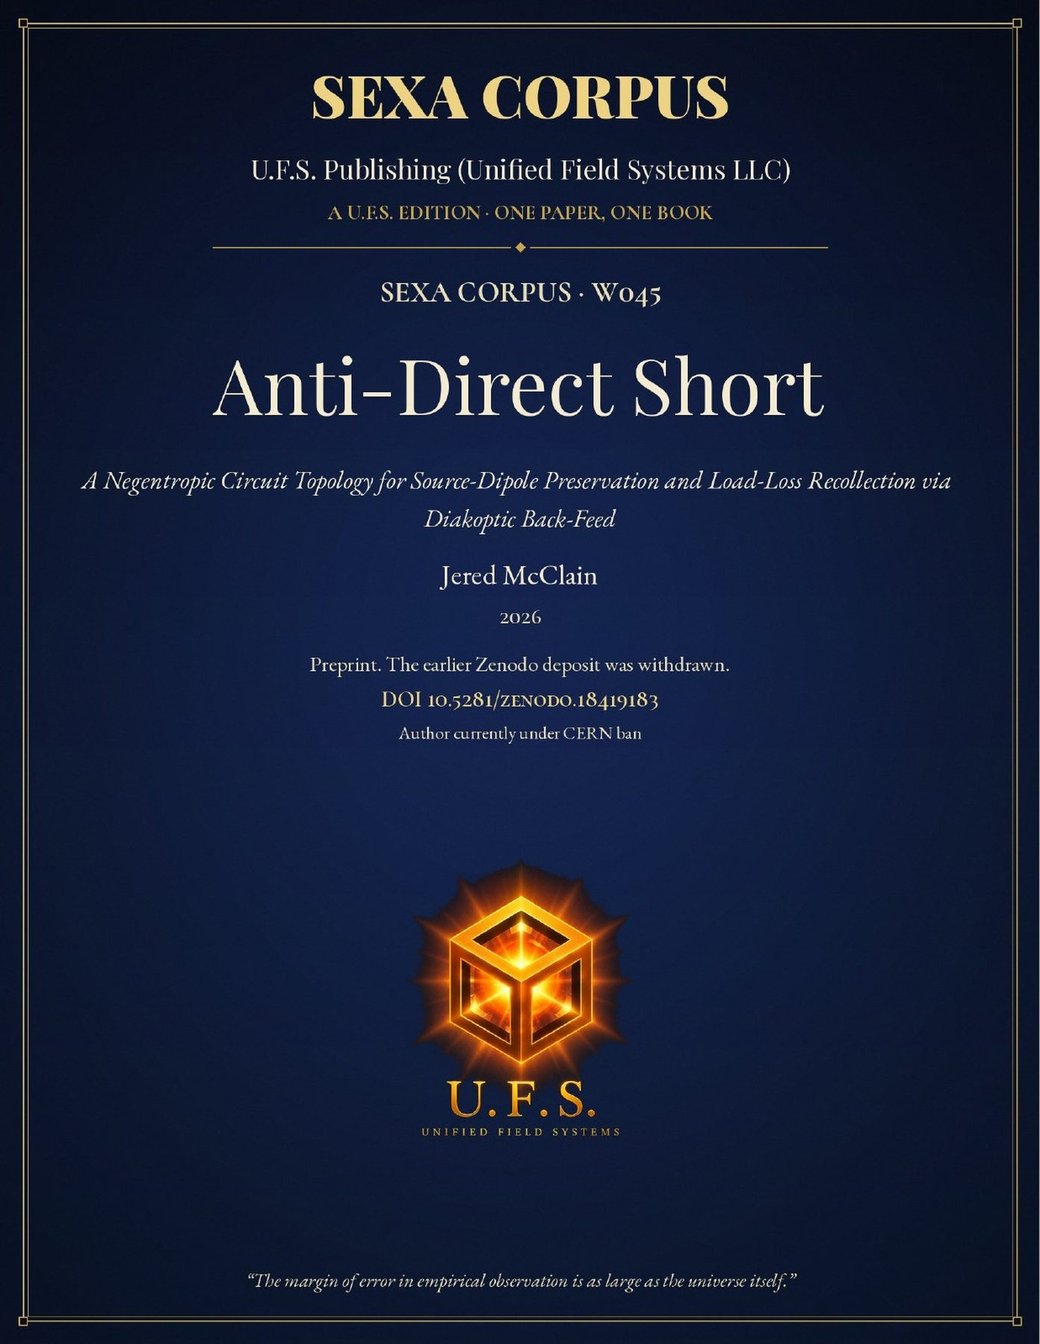
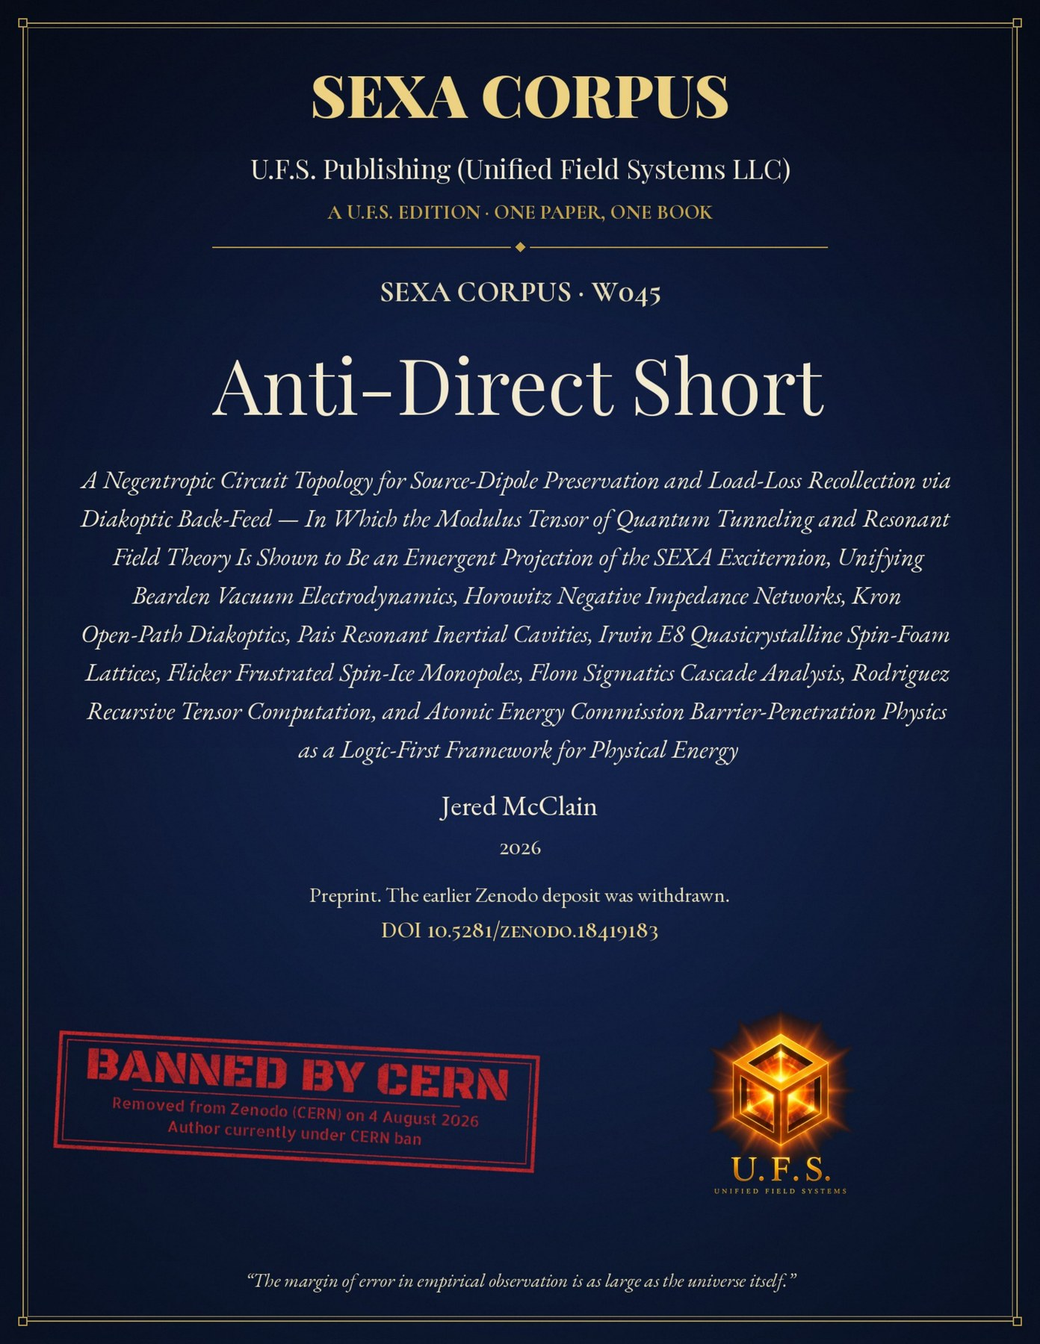
CERN-ban works: BANNED BY CERN stamped front covers + red CERN BAN label beside each cover (W011 W024 W039 W042 W044 W045 W046 W047 W048 W049 W069)

diff --git a/index.html b/index.html
@@ -116,6 +116,7 @@ footer .by{font:600 15px var(--serif);color:#f3ecdc;letter-spacing:.06em;margin-
 .thumb-banner{display:block;max-width:1000px;margin:0 auto;padding:22px 20px 8px;box-sizing:border-box}
 .thumb-banner a{display:block;line-height:0;text-decoration:none}
 .thumb-banner img{display:block;width:100%;height:auto;border:1px solid var(--gold);border-radius:4px;background:var(--navy)}
+.cern-ban-label{display:inline-block;font:800 15px/1.2 var(--sans,Arial,Helvetica,sans-serif);letter-spacing:.14em;text-transform:uppercase;color:#C00000;border:2px solid #C00000;padding:4px 10px;margin:10px 0 6px}.cern-card .cern-ban-label{margin:0 0 6px;font-size:13px;padding:3px 8px}
 </style>
 </head>
 <body>
@@ -584,8 +585,9 @@ footer .by{font:600 15px var(--serif);color:#f3ecdc;letter-spacing:.06em;margin-
 <p>These works were removed from Zenodo on 4 August 2026. Where a Zenodo DOI was issued, it is printed on the edition; it no longer resolves. Author currently under CERN ban. Released titles may be ordered as First Wave print copies, made to order and issued without ISBNs. Works still under review, unreleased, or issued only as a compilation are listed here but are not offered for order.</p>
 <div class="cern-grid">
 <article class="cern-card" id="cern-W011">
-<a href="#corpus-W011"><img class="cover" src="assets/corpus/covers/W011.jpg" srcset="assets/corpus/covers/W011.webp" width="1392" height="1800" alt="Front cover of W011" loading="lazy" decoding="async"></a>
+<a href="#corpus-W011"><img class="cover" src="assets/corpus/covers/W011.jpg?v=cernban1" srcset="assets/corpus/covers/W011.webp?v=cernban1" width="1392" height="1800" alt="Front cover of W011" loading="lazy" decoding="async"></a>
 <div>
+<p class="cern-ban-label" style="color:#C00000;font-weight:800">CERN BAN</p>
 <p class="wid">W011</p>
 <h4><a href="#corpus-W011">A Recursive Closure Criterion for a Theory of Everything: A 60-Glyph Quaternionic Inter-Domain Syllogistic Admissibility ≡ Prime Atom of Logic</a></h4>
 <p class="by">Jered McClain</p>
@@ -594,8 +596,9 @@ footer .by{font:600 15px var(--serif);color:#f3ecdc;letter-spacing:.06em;margin-
 </div>
 </article>
 <article class="cern-card" id="cern-W039">
-<a href="#corpus-W039"><img class="cover" src="assets/corpus/covers/W039.jpg" srcset="assets/corpus/covers/W039.webp" width="1392" height="1800" alt="Front cover of W039" loading="lazy" decoding="async"></a>
+<a href="#corpus-W039"><img class="cover" src="assets/corpus/covers/W039.jpg?v=cernban1" srcset="assets/corpus/covers/W039.webp?v=cernban1" width="1392" height="1800" alt="Front cover of W039" loading="lazy" decoding="async"></a>
 <div>
+<p class="cern-ban-label" style="color:#C00000;font-weight:800">CERN BAN</p>
 <p class="wid">W039</p>
 <h4><a href="#corpus-W039">Unified Recursive Manifold Dynamics, Dimensional Collapse Operators, and Triality-Structured Exciter Geometry — MASTER PEER REVIEW EDITION</a></h4>
 <p class="by">Jered McClain</p>
@@ -604,8 +607,9 @@ footer .by{font:600 15px var(--serif);color:#f3ecdc;letter-spacing:.06em;margin-
 </div>
 </article>
 <article class="cern-card" id="cern-W044">
-<a href="#corpus-W044"><img class="cover" src="assets/corpus/covers/W044.jpg" srcset="assets/corpus/covers/W044.webp" width="1392" height="1800" alt="Front cover of W044" loading="lazy" decoding="async"></a>
+<a href="#corpus-W044"><img class="cover" src="assets/corpus/covers/W044.jpg?v=cernban1" srcset="assets/corpus/covers/W044.webp?v=cernban1" width="1392" height="1800" alt="Front cover of W044" loading="lazy" decoding="async"></a>
 <div>
+<p class="cern-ban-label" style="color:#C00000;font-weight:800">CERN BAN</p>
 <p class="wid">W044</p>
 <h4><a href="#corpus-W044">The AMN Authority Tensor: Quaternionic Admissibility Enforcement, Glyph-Operator Constraint, and Planetary Closure in the SEXA Framework</a></h4>
 <p class="by">Jered McClain; Erydir Ceisiwr</p>
@@ -614,8 +618,9 @@ footer .by{font:600 15px var(--serif);color:#f3ecdc;letter-spacing:.06em;margin-
 </div>
 </article>
 <article class="cern-card" id="cern-W045">
-<a href="#corpus-W045"><img class="cover" src="assets/corpus/covers/W045.jpg" srcset="assets/corpus/covers/W045.webp" width="1392" height="1800" alt="Front cover of W045" loading="lazy" decoding="async"></a>
+<a href="#corpus-W045"><img class="cover" src="assets/corpus/covers/W045.jpg?v=cernban1" srcset="assets/corpus/covers/W045.webp?v=cernban1" width="1392" height="1800" alt="Front cover of W045" loading="lazy" decoding="async"></a>
 <div>
+<p class="cern-ban-label" style="color:#C00000;font-weight:800">CERN BAN</p>
 <p class="wid">W045</p>
 <h4><a href="#corpus-W045">Anti-Direct Short: A Negentropic Circuit Topology for Source-Dipole Preservation and Load-Loss Recollection via Diakoptic Back-Feed</a></h4>
 <p class="by">Jered McClain</p>
@@ -624,8 +629,9 @@ footer .by{font:600 15px var(--serif);color:#f3ecdc;letter-spacing:.06em;margin-
 </div>
 </article>
 <article class="cern-card" id="cern-W046">
-<a href="#corpus-W046"><img class="cover" src="assets/corpus/covers/W046.jpg" srcset="assets/corpus/covers/W046.webp" width="1392" height="1800" alt="Front cover of W046" loading="lazy" decoding="async"></a>
+<a href="#corpus-W046"><img class="cover" src="assets/corpus/covers/W046.jpg?v=cernban1" srcset="assets/corpus/covers/W046.webp?v=cernban1" width="1392" height="1800" alt="Front cover of W046" loading="lazy" decoding="async"></a>
 <div>
+<p class="cern-ban-label" style="color:#C00000;font-weight:800">CERN BAN</p>
 <p class="wid">W046</p>
 <h4><a href="#corpus-W046">Joey Rubin’s Kinetic Blueprinting, the 1-D Visibility Threshold, and SEXA MATH Real-Time Imagery Across 5–2880D</a></h4>
 <p class="by">Jered McClain</p>
@@ -634,8 +640,9 @@ footer .by{font:600 15px var(--serif);color:#f3ecdc;letter-spacing:.06em;margin-
 </div>
 </article>
 <article class="cern-card" id="cern-W048">
-<a href="#corpus-W048"><img class="cover" src="assets/corpus/covers/W048.jpg" srcset="assets/corpus/covers/W048.webp" width="1392" height="1800" alt="Front cover of W048" loading="lazy" decoding="async"></a>
+<a href="#corpus-W048"><img class="cover" src="assets/corpus/covers/W048.jpg?v=cernban1" srcset="assets/corpus/covers/W048.webp?v=cernban1" width="1392" height="1800" alt="Front cover of W048" loading="lazy" decoding="async"></a>
 <div>
+<p class="cern-ban-label" style="color:#C00000;font-weight:800">CERN BAN</p>
 <p class="wid">W048</p>
 <h4><a href="#corpus-W048">Lightning as a Quantum Vacuum Plasma Fracture Rather Than Propagation — A SEXA-Based Challenge to Geodesic Intuition, Thermodynamic Locality, and Mid-Air Lightning Termination (ZeroReactor)</a></h4>
 <p class="by">Jered McClain</p>
@@ -644,8 +651,9 @@ footer .by{font:600 15px var(--serif);color:#f3ecdc;letter-spacing:.06em;margin-
 </div>
 </article>
 <article class="cern-card" id="cern-W049">
-<a href="#corpus-W049"><img class="cover" src="assets/corpus/covers/W049.jpg" srcset="assets/corpus/covers/W049.webp" width="1392" height="1800" alt="Front cover of W049" loading="lazy" decoding="async"></a>
+<a href="#corpus-W049"><img class="cover" src="assets/corpus/covers/W049.jpg?v=cernban1" srcset="assets/corpus/covers/W049.webp?v=cernban1" width="1392" height="1800" alt="Front cover of W049" loading="lazy" decoding="async"></a>
 <div>
+<p class="cern-ban-label" style="color:#C00000;font-weight:800">CERN BAN</p>
 <p class="wid">W049</p>
 <h4><a href="#corpus-W049">SEXA: An Axiomatic Closure Framework for Recursive Manifold Physics — Exciternion Evaluation, Dimensional Collapse, and Cross-Domain Constructability</a></h4>
 <p class="by">Jered McClain</p>
@@ -654,8 +662,9 @@ footer .by{font:600 15px var(--serif);color:#f3ecdc;letter-spacing:.06em;margin-
 </div>
 </article>
 <article class="cern-card" id="cern-W024">
-<a href="#corpus-W024"><img class="cover" src="assets/corpus/covers/W024.jpg" srcset="assets/corpus/covers/W024.webp" width="1392" height="1800" alt="Front cover of W024" loading="lazy" decoding="async"></a>
+<a href="#corpus-W024"><img class="cover" src="assets/corpus/covers/W024.jpg?v=cernban1" srcset="assets/corpus/covers/W024.webp?v=cernban1" width="1392" height="1800" alt="Front cover of W024" loading="lazy" decoding="async"></a>
 <div>
+<p class="cern-ban-label" style="color:#C00000;font-weight:800">CERN BAN</p>
 <p class="wid">W024</p>
 <h4><a href="#corpus-W024">The Γ-Subthreshold Fold Logic Theorem: Minimal Admissibility Compression, Recursive Information Preservation, and Unique Reconstruction Across the 2880-Dimensional Recursive Hierarchy</a></h4>
 <p class="by">Jered McClain; Erydir Ceisiwr</p>
@@ -665,8 +674,9 @@ footer .by{font:600 15px var(--serif);color:#f3ecdc;letter-spacing:.06em;margin-
 </div>
 </article>
 <article class="cern-card" id="cern-W042">
-<a href="#corpus-W042"><img class="cover" src="assets/corpus/covers/W042.jpg" srcset="assets/corpus/covers/W042.webp" width="1392" height="1800" alt="Front cover of W042" loading="lazy" decoding="async"></a>
+<a href="#corpus-W042"><img class="cover" src="assets/corpus/covers/W042.jpg?v=cernban1" srcset="assets/corpus/covers/W042.webp?v=cernban1" width="1392" height="1800" alt="Front cover of W042" loading="lazy" decoding="async"></a>
 <div>
+<p class="cern-ban-label" style="color:#C00000;font-weight:800">CERN BAN</p>
 <p class="wid">W042</p>
 <h4><a href="#corpus-W042">The Last Constant: A Theorem-Grade Formalization of Recursive Propagation, Higher-Dimensional Transport, Recursive Admissibility, Computational Correspondence, Dimensional Closure, and Relativistic Horizon Structure Within the SEXA Unified Field Framework</a></h4>
 <p class="by">Jered McClain; Erydir Ceisiwr</p>
@@ -676,8 +686,9 @@ footer .by{font:600 15px var(--serif);color:#f3ecdc;letter-spacing:.06em;margin-
 </div>
 </article>
 <article class="cern-card" id="cern-W047">
-<a href="#corpus-W047"><img class="cover" src="assets/corpus/covers/W047.jpg" srcset="assets/corpus/covers/W047.webp" width="1392" height="1800" alt="Front cover of W047" loading="lazy" decoding="async"></a>
+<a href="#corpus-W047"><img class="cover" src="assets/corpus/covers/W047.jpg?v=cernban1" srcset="assets/corpus/covers/W047.webp?v=cernban1" width="1392" height="1800" alt="Front cover of W047" loading="lazy" decoding="async"></a>
 <div>
+<p class="cern-ban-label" style="color:#C00000;font-weight:800">CERN BAN</p>
 <p class="wid">W047</p>
 <h4><a href="#corpus-W047">Artificial Rest: A High-Dimensional Restorative Regime Derived from the SEXA Unified Field Theory</a></h4>
 <p class="by">Jered McClain</p>
@@ -687,8 +698,9 @@ footer .by{font:600 15px var(--serif);color:#f3ecdc;letter-spacing:.06em;margin-
 </div>
 </article>
 <article class="cern-card" id="cern-W069">
-<a href="#corpus-W069"><img class="cover" src="assets/corpus/covers/W069.jpg" srcset="assets/corpus/covers/W069.webp" width="1392" height="1800" alt="Front cover of W069" loading="lazy" decoding="async"></a>
+<a href="#corpus-W069"><img class="cover" src="assets/corpus/covers/W069.jpg?v=cernban1" srcset="assets/corpus/covers/W069.webp?v=cernban1" width="1392" height="1800" alt="Front cover of W069" loading="lazy" decoding="async"></a>
 <div>
+<p class="cern-ban-label" style="color:#C00000;font-weight:800">CERN BAN</p>
 <p class="wid">W069</p>
 <h4><a href="#corpus-W069">SEXA Unified Field Theory: The Structured Survivability Audit; Formal Compatibility and Falsifiability Assessment of the SEXA Unified Field Model; and CCT/SEXA ↔ SIGMATICS Correspondence, Proven Through Computational Analysis</a></h4>
 <p class="by">Jered McClain; Erydir Ceisiwr</p>
@@ -956,10 +968,11 @@ footer .by{font:600 15px var(--serif);color:#f3ecdc;letter-spacing:.06em;margin-
 <article class="cbook" id="corpus-W011">
 <figure>
 <picture>
-<source type="image/webp" srcset="assets/corpus/covers/W011.webp">
-<img class="cover" src="assets/corpus/covers/W011.jpg" width="1392" height="1800" alt="Front cover of W011: A Recursive Closure Criterion for a Theory of Everything: A 60-Glyph Quaternionic Inter-Domain Syllogistic Admissibility ≡ Prime Atom of Logic" decoding="async" loading="lazy">
+<source type="image/webp" srcset="assets/corpus/covers/W011.webp?v=cernban1">
+<img class="cover" src="assets/corpus/covers/W011.jpg?v=cernban1" width="1392" height="1800" alt="Front cover of W011: A Recursive Closure Criterion for a Theory of Everything: A 60-Glyph Quaternionic Inter-Domain Syllogistic Admissibility ≡ Prime Atom of Logic" decoding="async" loading="lazy">
 </picture>
 </figure>
+<p class="cern-ban-label" style="color:#C00000;font-weight:800">CERN BAN</p>
 <p class="wid">W011</p>
 <h3>A Recursive Closure Criterion for a Theory of Everything: A 60-Glyph Quaternionic Inter-Domain Syllogistic Admissibility ≡ Prime Atom of Logic</h3>
 <p class="by">Jered McClain</p>
@@ -1083,10 +1096,11 @@ footer .by{font:600 15px var(--serif);color:#f3ecdc;letter-spacing:.06em;margin-
 <article class="cbook" id="corpus-W024">
 <figure>
 <picture>
-<source type="image/webp" srcset="assets/corpus/covers/W024.webp">
-<img class="cover" src="assets/corpus/covers/W024.jpg" width="1392" height="1800" alt="Front cover of W024: The Γ-Subthreshold Fold Logic Theorem: Minimal Admissibility Compression, Recursive Information Preservation, and Unique Reconstruction Across the 2880-Dimensional Recursive Hierarchy" decoding="async" loading="lazy">
+<source type="image/webp" srcset="assets/corpus/covers/W024.webp?v=cernban1">
+<img class="cover" src="assets/corpus/covers/W024.jpg?v=cernban1" width="1392" height="1800" alt="Front cover of W024: The Γ-Subthreshold Fold Logic Theorem: Minimal Admissibility Compression, Recursive Information Preservation, and Unique Reconstruction Across the 2880-Dimensional Recursive Hierarchy" decoding="async" loading="lazy">
 </picture>
 </figure>
+<p class="cern-ban-label" style="color:#C00000;font-weight:800">CERN BAN</p>
 <p class="wid">W024</p>
 <h3>The Γ-Subthreshold Fold Logic Theorem: Minimal Admissibility Compression, Recursive Information Preservation, and Unique Reconstruction Across the 2880-Dimensional Recursive Hierarchy</h3>
 <p class="by">Jered McClain; Erydir Ceisiwr</p>
@@ -1105,10 +1119,11 @@ footer .by{font:600 15px var(--serif);color:#f3ecdc;letter-spacing:.06em;margin-
 <article class="cbook" id="corpus-W039">
 <figure>
 <picture>
-<source type="image/webp" srcset="assets/corpus/covers/W039.webp">
-<img class="cover" src="assets/corpus/covers/W039.jpg" width="1392" height="1800" alt="Front cover of W039: Unified Recursive Manifold Dynamics, Dimensional Collapse Operators, and Triality-Structured Exciter Geometry — MASTER PEER REVIEW EDITION" decoding="async" loading="lazy">
+<source type="image/webp" srcset="assets/corpus/covers/W039.webp?v=cernban1">
+<img class="cover" src="assets/corpus/covers/W039.jpg?v=cernban1" width="1392" height="1800" alt="Front cover of W039: Unified Recursive Manifold Dynamics, Dimensional Collapse Operators, and Triality-Structured Exciter Geometry — MASTER PEER REVIEW EDITION" decoding="async" loading="lazy">
 </picture>
 </figure>
+<p class="cern-ban-label" style="color:#C00000;font-weight:800">CERN BAN</p>
 <p class="wid">W039</p>
 <h3>Unified Recursive Manifold Dynamics, Dimensional Collapse Operators, and Triality-Structured Exciter Geometry — MASTER PEER REVIEW EDITION</h3>
 <p class="by">Jered McClain</p>
@@ -1127,10 +1142,11 @@ footer .by{font:600 15px var(--serif);color:#f3ecdc;letter-spacing:.06em;margin-
 <article class="cbook" id="corpus-W042">
 <figure>
 <picture>
-<source type="image/webp" srcset="assets/corpus/covers/W042.webp">
-<img class="cover" src="assets/corpus/covers/W042.jpg" width="1392" height="1800" alt="Front cover of W042: The Last Constant: A Theorem-Grade Formalization of Recursive Propagation, Higher-Dimensional Transport, Recursive Admissibility, Computational Correspondence, Dimensional Closure, and Relativistic Horizon Structure Within the SEXA Unified Field Framework" decoding="async" loading="lazy">
+<source type="image/webp" srcset="assets/corpus/covers/W042.webp?v=cernban1">
+<img class="cover" src="assets/corpus/covers/W042.jpg?v=cernban1" width="1392" height="1800" alt="Front cover of W042: The Last Constant: A Theorem-Grade Formalization of Recursive Propagation, Higher-Dimensional Transport, Recursive Admissibility, Computational Correspondence, Dimensional Closure, and Relativistic Horizon Structure Within the SEXA Unified Field Framework" decoding="async" loading="lazy">
 </picture>
 </figure>
+<p class="cern-ban-label" style="color:#C00000;font-weight:800">CERN BAN</p>
 <p class="wid">W042</p>
 <h3>The Last Constant: A Theorem-Grade Formalization of Recursive Propagation, Higher-Dimensional Transport, Recursive Admissibility, Computational Correspondence, Dimensional Closure, and Relativistic Horizon Structure Within the SEXA Unified Field Framework</h3>
 <p class="by">Jered McClain; Erydir Ceisiwr</p>
@@ -1149,10 +1165,11 @@ footer .by{font:600 15px var(--serif);color:#f3ecdc;letter-spacing:.06em;margin-
 <article class="cbook" id="corpus-W044">
 <figure>
 <picture>
-<source type="image/webp" srcset="assets/corpus/covers/W044.webp">
-<img class="cover" src="assets/corpus/covers/W044.jpg" width="1392" height="1800" alt="Front cover of W044: The AMN Authority Tensor: Quaternionic Admissibility Enforcement, Glyph-Operator Constraint, and Planetary Closure in the SEXA Framework" decoding="async" loading="lazy">
+<source type="image/webp" srcset="assets/corpus/covers/W044.webp?v=cernban1">
+<img class="cover" src="assets/corpus/covers/W044.jpg?v=cernban1" width="1392" height="1800" alt="Front cover of W044: The AMN Authority Tensor: Quaternionic Admissibility Enforcement, Glyph-Operator Constraint, and Planetary Closure in the SEXA Framework" decoding="async" loading="lazy">
 </picture>
 </figure>
+<p class="cern-ban-label" style="color:#C00000;font-weight:800">CERN BAN</p>
 <p class="wid">W044</p>
 <h3>The AMN Authority Tensor: Quaternionic Admissibility Enforcement, Glyph-Operator Constraint, and Planetary Closure in the SEXA Framework</h3>
 <p class="by">Jered McClain; Erydir Ceisiwr</p>
@@ -1171,10 +1188,11 @@ footer .by{font:600 15px var(--serif);color:#f3ecdc;letter-spacing:.06em;margin-
 <article class="cbook" id="corpus-W045">
 <figure>
 <picture>
-<source type="image/webp" srcset="assets/corpus/covers/W045.webp">
-<img class="cover" src="assets/corpus/covers/W045.jpg" width="1392" height="1800" alt="Front cover of W045: Anti-Direct Short: A Negentropic Circuit Topology for Source-Dipole Preservation and Load-Loss Recollection via Diakoptic Back-Feed" decoding="async" loading="lazy">
+<source type="image/webp" srcset="assets/corpus/covers/W045.webp?v=cernban1">
+<img class="cover" src="assets/corpus/covers/W045.jpg?v=cernban1" width="1392" height="1800" alt="Front cover of W045: Anti-Direct Short: A Negentropic Circuit Topology for Source-Dipole Preservation and Load-Loss Recollection via Diakoptic Back-Feed" decoding="async" loading="lazy">
 </picture>
 </figure>
+<p class="cern-ban-label" style="color:#C00000;font-weight:800">CERN BAN</p>
 <p class="wid">W045</p>
 <h3>Anti-Direct Short: A Negentropic Circuit Topology for Source-Dipole Preservation and Load-Loss Recollection via Diakoptic Back-Feed</h3>
 <p class="by">Jered McClain</p>
@@ -1193,10 +1211,11 @@ footer .by{font:600 15px var(--serif);color:#f3ecdc;letter-spacing:.06em;margin-
 <article class="cbook" id="corpus-W046">
 <figure>
 <picture>
-<source type="image/webp" srcset="assets/corpus/covers/W046.webp">
-<img class="cover" src="assets/corpus/covers/W046.jpg" width="1392" height="1800" alt="Front cover of W046: Joey Rubin’s Kinetic Blueprinting, the 1-D Visibility Threshold, and SEXA MATH Real-Time Imagery Across 5–2880D" decoding="async" loading="lazy">
+<source type="image/webp" srcset="assets/corpus/covers/W046.webp?v=cernban1">
+<img class="cover" src="assets/corpus/covers/W046.jpg?v=cernban1" width="1392" height="1800" alt="Front cover of W046: Joey Rubin’s Kinetic Blueprinting, the 1-D Visibility Threshold, and SEXA MATH Real-Time Imagery Across 5–2880D" decoding="async" loading="lazy">
 </picture>
 </figure>
+<p class="cern-ban-label" style="color:#C00000;font-weight:800">CERN BAN</p>
 <p class="wid">W046</p>
 <h3>Joey Rubin’s Kinetic Blueprinting, the 1-D Visibility Threshold, and SEXA MATH Real-Time Imagery Across 5–2880D</h3>
 <p class="by">Jered McClain</p>
@@ -1215,10 +1234,11 @@ footer .by{font:600 15px var(--serif);color:#f3ecdc;letter-spacing:.06em;margin-
 <article class="cbook" id="corpus-W047">
 <figure>
 <picture>
-<source type="image/webp" srcset="assets/corpus/covers/W047.webp">
-<img class="cover" src="assets/corpus/covers/W047.jpg" width="1392" height="1800" alt="Front cover of W047: Artificial Rest: A High-Dimensional Restorative Regime Derived from the SEXA Unified Field Theory" decoding="async" loading="lazy">
+<source type="image/webp" srcset="assets/corpus/covers/W047.webp?v=cernban1">
+<img class="cover" src="assets/corpus/covers/W047.jpg?v=cernban1" width="1392" height="1800" alt="Front cover of W047: Artificial Rest: A High-Dimensional Restorative Regime Derived from the SEXA Unified Field Theory" decoding="async" loading="lazy">
 </picture>
 </figure>
+<p class="cern-ban-label" style="color:#C00000;font-weight:800">CERN BAN</p>
 <p class="wid">W047</p>
 <h3>Artificial Rest: A High-Dimensional Restorative Regime Derived from the SEXA Unified Field Theory</h3>
 <p class="by">Jered McClain</p>
@@ -1237,10 +1257,11 @@ footer .by{font:600 15px var(--serif);color:#f3ecdc;letter-spacing:.06em;margin-
 <article class="cbook" id="corpus-W048">
 <figure>
 <picture>
-<source type="image/webp" srcset="assets/corpus/covers/W048.webp">
-<img class="cover" src="assets/corpus/covers/W048.jpg" width="1392" height="1800" alt="Front cover of W048: Lightning as a Quantum Vacuum Plasma Fracture Rather Than Propagation — A SEXA-Based Challenge to Geodesic Intuition, Thermodynamic Locality, and Mid-Air Lightning Termination (ZeroReactor)" decoding="async" loading="lazy">
+<source type="image/webp" srcset="assets/corpus/covers/W048.webp?v=cernban1">
+<img class="cover" src="assets/corpus/covers/W048.jpg?v=cernban1" width="1392" height="1800" alt="Front cover of W048: Lightning as a Quantum Vacuum Plasma Fracture Rather Than Propagation — A SEXA-Based Challenge to Geodesic Intuition, Thermodynamic Locality, and Mid-Air Lightning Termination (ZeroReactor)" decoding="async" loading="lazy">
 </picture>
 </figure>
+<p class="cern-ban-label" style="color:#C00000;font-weight:800">CERN BAN</p>
 <p class="wid">W048</p>
 <h3>Lightning as a Quantum Vacuum Plasma Fracture Rather Than Propagation — A SEXA-Based Challenge to Geodesic Intuition, Thermodynamic Locality, and Mid-Air Lightning Termination (ZeroReactor)</h3>
 <p class="by">Jered McClain</p>
@@ -1259,10 +1280,11 @@ footer .by{font:600 15px var(--serif);color:#f3ecdc;letter-spacing:.06em;margin-
 <article class="cbook" id="corpus-W049">
 <figure>
 <picture>
-<source type="image/webp" srcset="assets/corpus/covers/W049.webp">
-<img class="cover" src="assets/corpus/covers/W049.jpg" width="1392" height="1800" alt="Front cover of W049: SEXA: An Axiomatic Closure Framework for Recursive Manifold Physics — Exciternion Evaluation, Dimensional Collapse, and Cross-Domain Constructability" decoding="async" loading="lazy">
+<source type="image/webp" srcset="assets/corpus/covers/W049.webp?v=cernban1">
+<img class="cover" src="assets/corpus/covers/W049.jpg?v=cernban1" width="1392" height="1800" alt="Front cover of W049: SEXA: An Axiomatic Closure Framework for Recursive Manifold Physics — Exciternion Evaluation, Dimensional Collapse, and Cross-Domain Constructability" decoding="async" loading="lazy">
 </picture>
 </figure>
+<p class="cern-ban-label" style="color:#C00000;font-weight:800">CERN BAN</p>
 <p class="wid">W049</p>
 <h3>SEXA: An Axiomatic Closure Framework for Recursive Manifold Physics — Exciternion Evaluation, Dimensional Collapse, and Cross-Domain Constructability</h3>
 <p class="by">Jered McClain</p>
@@ -1365,10 +1387,11 @@ footer .by{font:600 15px var(--serif);color:#f3ecdc;letter-spacing:.06em;margin-
 <article class="cbook" id="corpus-W069">
 <figure>
 <picture>
-<source type="image/webp" srcset="assets/corpus/covers/W069.webp">
-<img class="cover" src="assets/corpus/covers/W069.jpg" width="1392" height="1800" alt="Front cover of W069: SEXA Unified Field Theory: The Structured Survivability Audit; Formal Compatibility and Falsifiability Assessment of the SEXA Unified Field Model; and CCT/SEXA ↔ SIGMATICS Correspondence, Proven Through Computational Analysis" decoding="async" loading="lazy">
+<source type="image/webp" srcset="assets/corpus/covers/W069.webp?v=cernban1">
+<img class="cover" src="assets/corpus/covers/W069.jpg?v=cernban1" width="1392" height="1800" alt="Front cover of W069: SEXA Unified Field Theory: The Structured Survivability Audit; Formal Compatibility and Falsifiability Assessment of the SEXA Unified Field Model; and CCT/SEXA ↔ SIGMATICS Correspondence, Proven Through Computational Analysis" decoding="async" loading="lazy">
 </picture>
 </figure>
+<p class="cern-ban-label" style="color:#C00000;font-weight:800">CERN BAN</p>
 <p class="wid">W069</p>
 <h3>SEXA Unified Field Theory: The Structured Survivability Audit; Formal Compatibility and Falsifiability Assessment of the SEXA Unified Field Model; and CCT/SEXA ↔ SIGMATICS Correspondence, Proven Through Computational Analysis</h3>
 <p class="by">Jered McClain; Erydir Ceisiwr</p>
